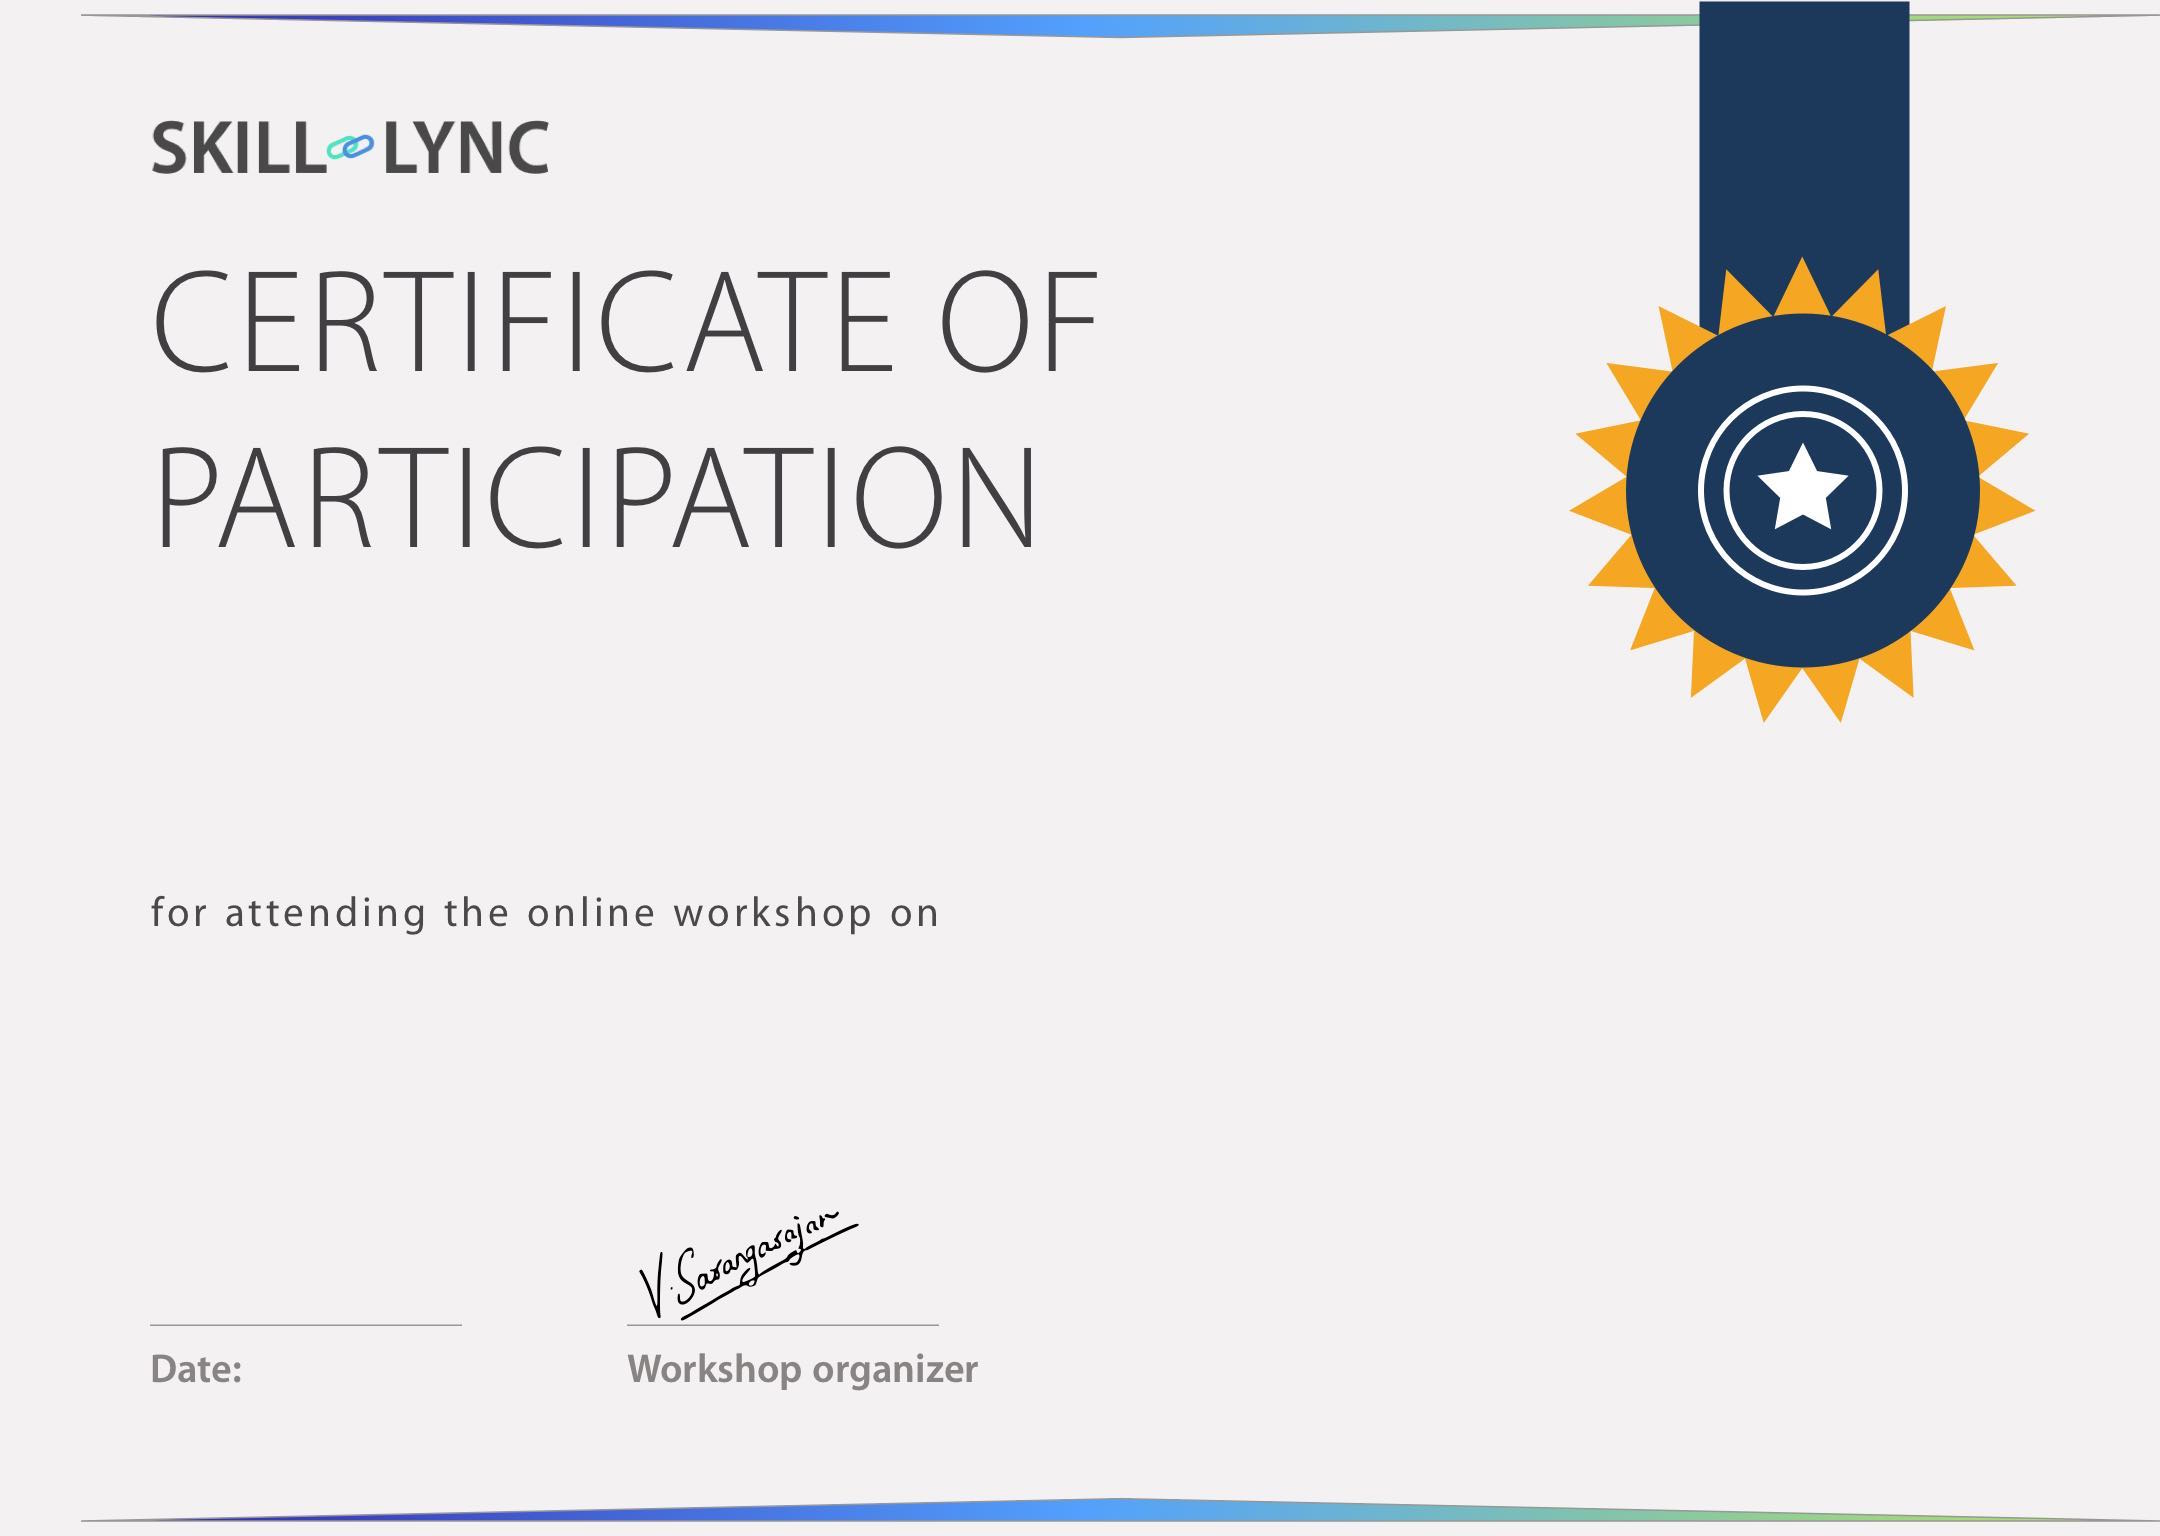
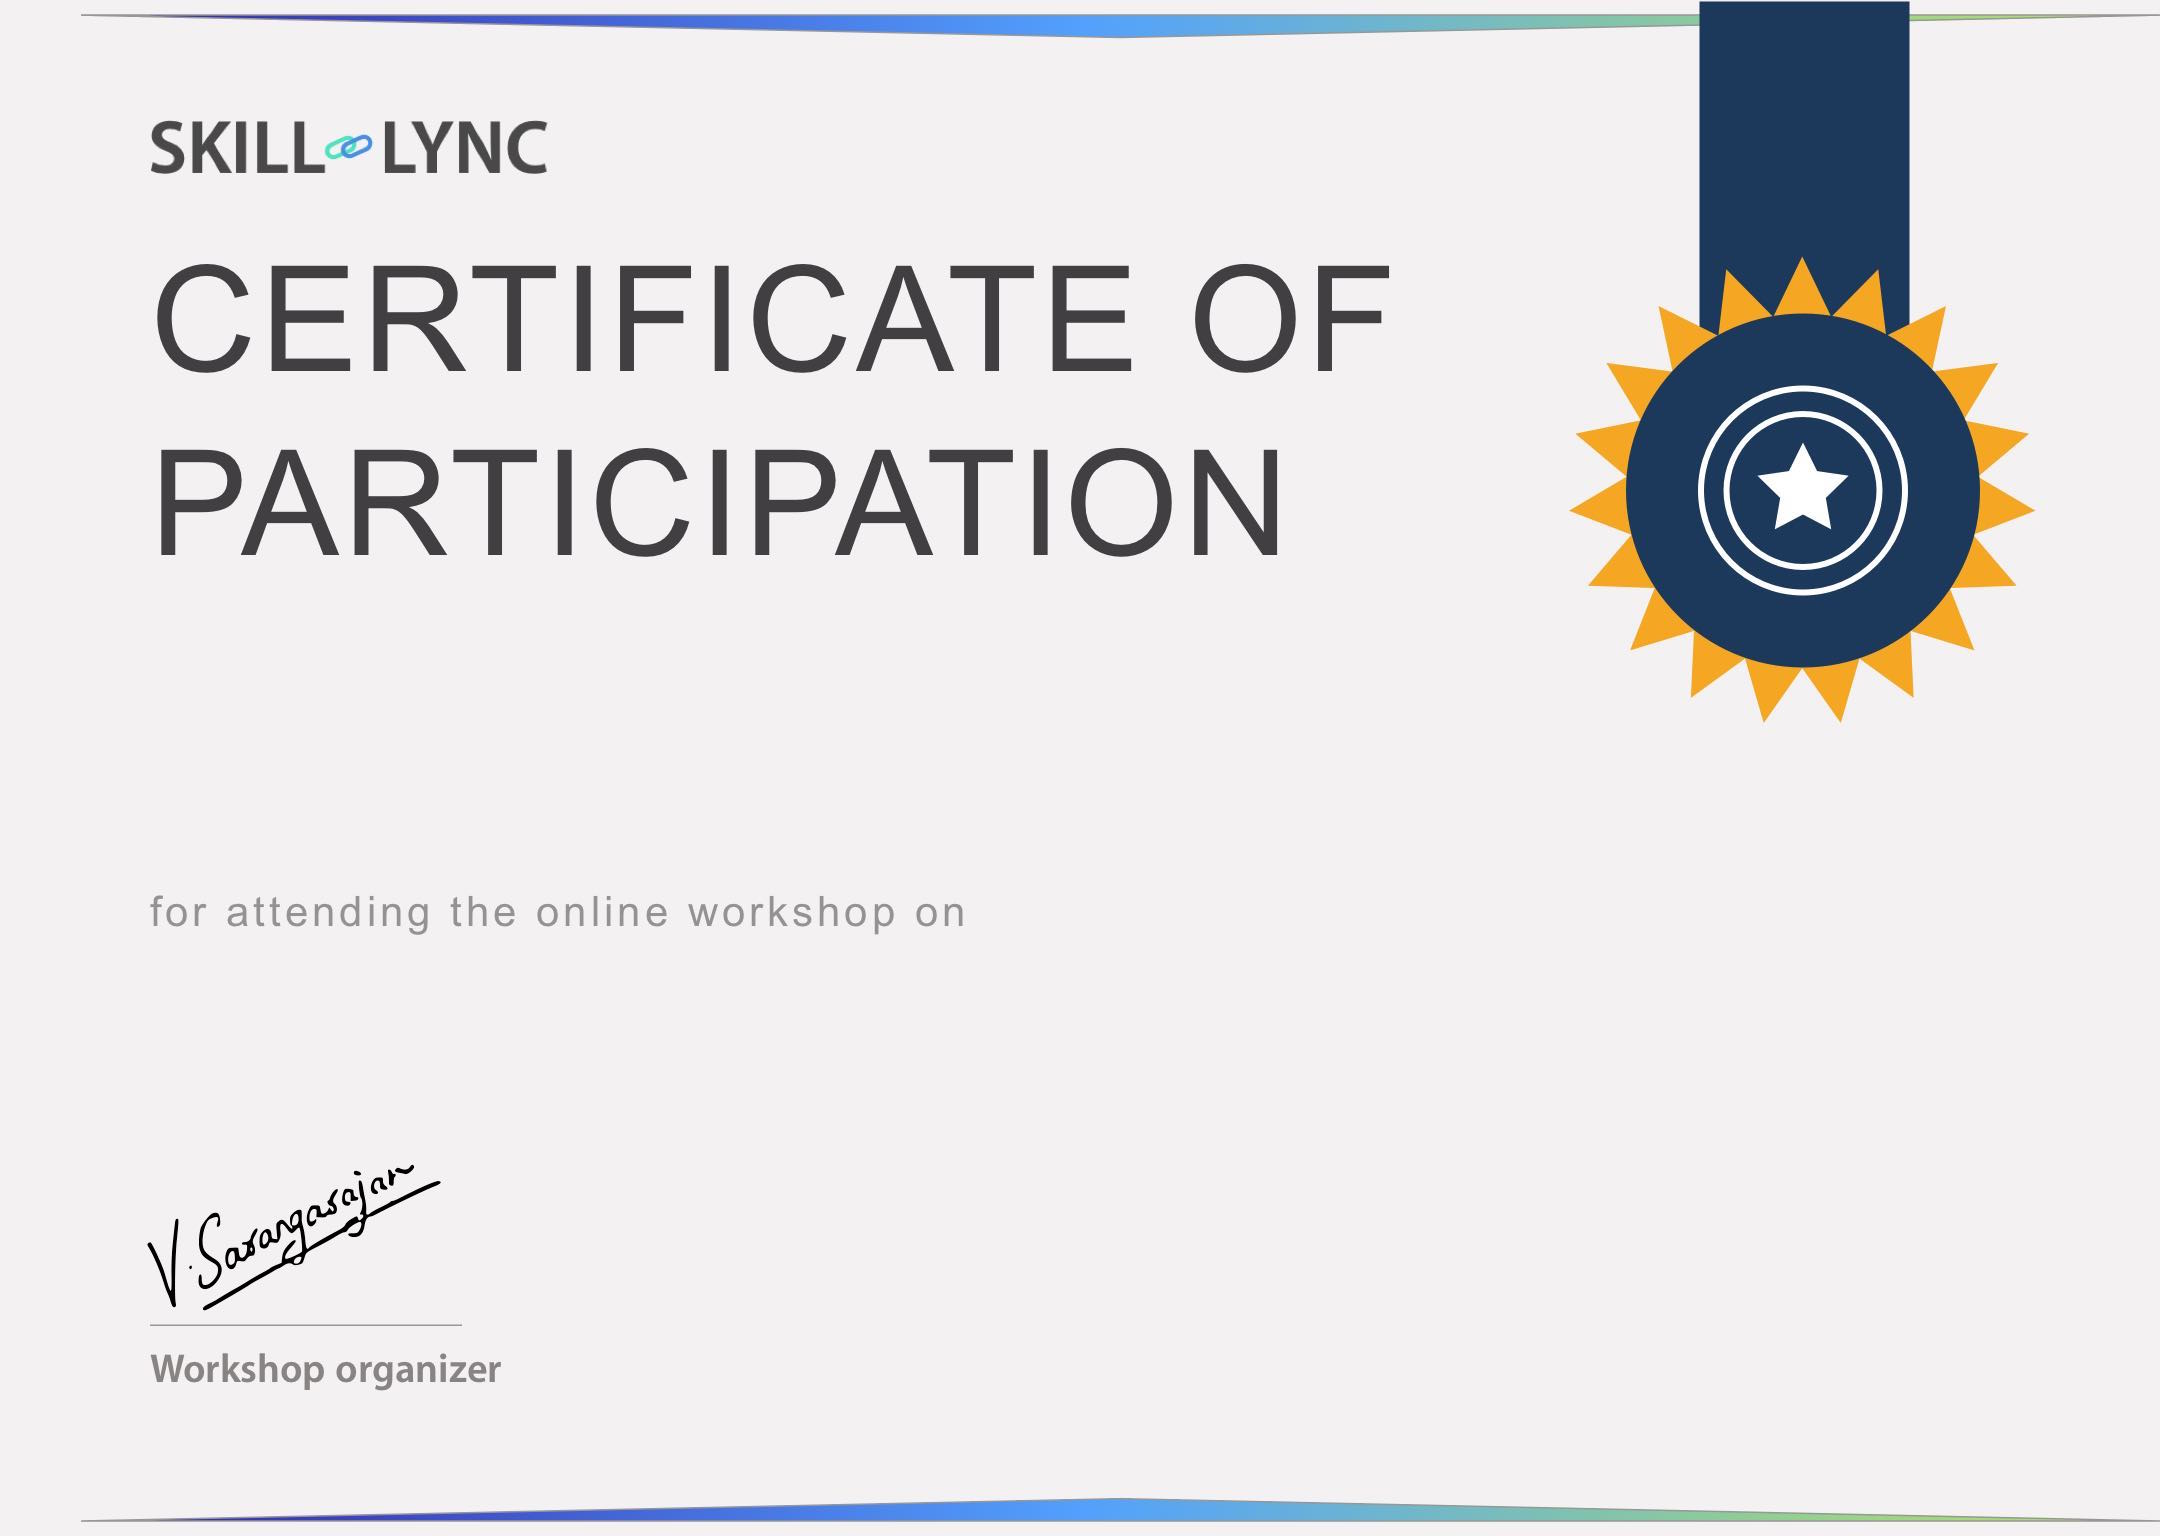
Modified template. Text position will be input manually. Create directories for each workshop

diff --git a/Certificate.py b/Certificate.py
@@ -1,48 +1,73 @@
 from PIL import Image
 from PIL import ImageFont
 from PIL import ImageDraw
-
+from datetime import datetime
+import os
 
 class Certicicate:
 	def __init__(self, title, name, date):
-		self.template = '0.jpg'
+		self.template = 'certificate_template/0.jpg'
 		self.title = title
 		self.name = name
 		self.date = date
 
 	def generate(self):
-		footer = "attended the workshop on {} that was held on {}".format(self.title, self.date)
 		img = Image.open(self.template,'r')
-		img_width, img_height = img.size
-		font_type = ImageFont.truetype("arial.ttf", 25)
-		font_type_footer  = ImageFont.truetype("arial.ttf", 15)
 		draw = ImageDraw.Draw(img)
-		user_name = self.name
-		text_size = draw.textsize(user_name, font_type)
-		footer_size = draw.textsize(footer, font_type_footer)
+
+		name_font_object = ImageFont.truetype("arial.ttf", 64)
+		footer_font_object  = ImageFont.truetype("arial.ttf", 35)
+		
+		name = self.name.upper()
+		footer = "{} that was held on {}".format(self.title, self.date)
+
+		# Settings from sketch
+		scale_factor = 1.5
+		name_x = 101*scale_factor
+		name_y = 467*scale_factor
+
+		footer_x = 101*scale_factor
+		footer_y = 640*scale_factor
+
+		"""
 		text_width = text_size[0]
 		text_height = text_size[1]
 		footer_width = footer_size[0]
 		footer_height = footer_size[1]
+
 
 		text_x = (img_width-text_width)*0.5
 		text_y = (img_height-text_height)*0.5
 
 		footer_x = (img_width-footer_width)*0.5
 		footer_y = (img_height-footer_height)*0.6
+		"""
 
-		draw.text((text_x, text_y),user_name, font=font_type)
-		draw.text((footer_x, footer_y),footer, font=font_type_footer)
+		draw.text((name_x, name_y),name, font=name_font_object, fill=(0,0,0,0))
+		draw.text((footer_x, footer_y),footer, font=footer_font_object, fill=(0,0,0,0))
+		t = datetime.today()
+		date = t.strftime('%Y-%m-%d')
+		fdir = self.title + '_' + date
+		fdir = os.path.join(os.getcwd(), fdir)
+		if not os.path.isdir(fdir): os.mkdir(fdir)
+
 		fname = self.name + '.jpg'
 		fname = fname.lower().replace(' ','_')
-		print(fname)
+		fname = os.path.join(fdir, fname)
+		
 		img.save(fname, subsampling=0, quality=100, mode='RGB')
 
-workshop_name = 'Advanced CFD workshop'
-workshop_date = 'October 15, 2017'
+
+workshop_name = 'Advanced Crash worthiness'
+workshop_date = 'November 19, 2017'
 
 for user in open('users.txt'):
 	u =user.strip().replace('.','')
+	if len(u)>0:
+		c1 = Certicicate(workshop_name, u, workshop_date)
+		c1.generate()
 
-	c1 = Certicicate(workshop_name, u.upper(), workshop_date)
-	c1.generate()
+
+
+
+
